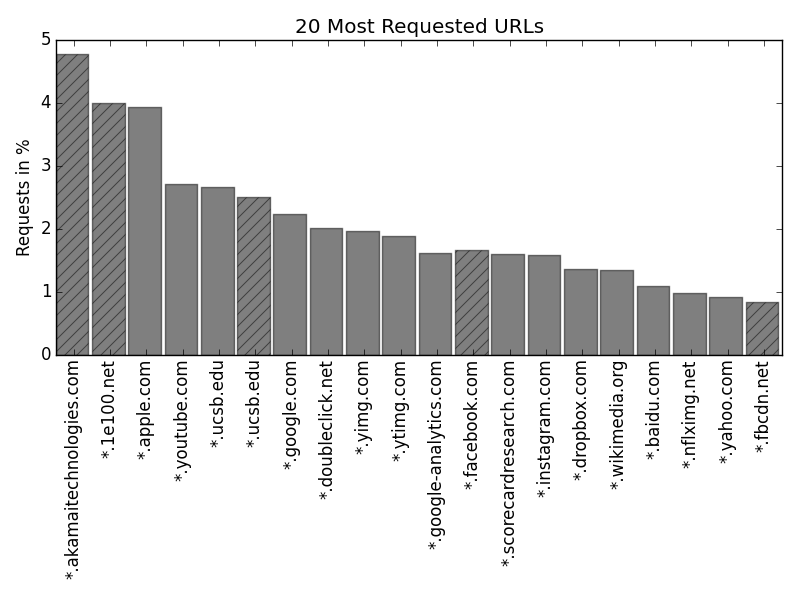
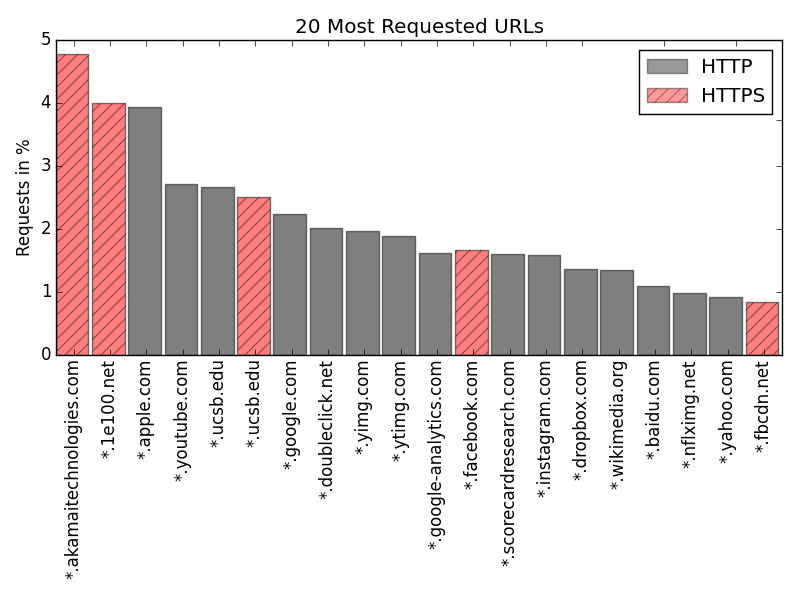
Updated Websites-graph

diff --git a/graphs/websites.py b/graphs/websites.py
@@ -16,7 +16,7 @@ error_config = {'ecolor': '0.3'}
 
 rects1 = plt.bar(index, means_men, bar_width,
                  alpha=opacity,
-                 color='black',
+                 color='red',
                  error_kw=error_config,
                  hatch="//")
 
